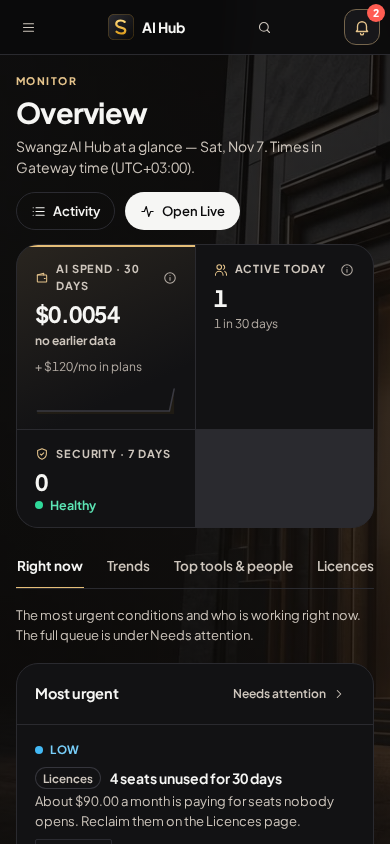
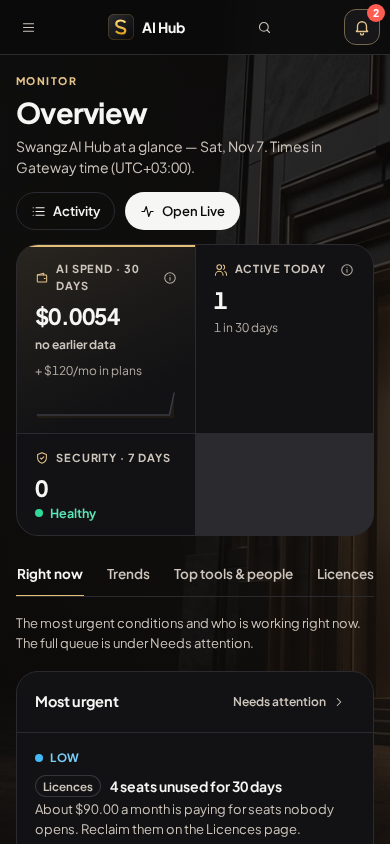
Fix Jakarta value clipping and glass print background

diff --git a/gateway/static/admin.css b/gateway/static/admin.css
@@ -109,7 +109,7 @@ code, pre, .mono { font-size: 12.5px; }
 .kpi .label { color: var(--tx-2); font-size: 11px; font-weight: 700; letter-spacing: .08em; text-transform: uppercase; display: flex; align-items: center; gap: 7px; }
 .kpi .label > svg { width: 14px; height: 14px; color: var(--accent-tx); flex: none; }
 .kpi .label .u-info { position: relative; z-index: 2; margin-left: auto; }
-.kpi .value { font-size: var(--t-num); font-weight: 720; letter-spacing: -.025em; line-height: 1.12; margin-top: 4px; white-space: normal; overflow-wrap: anywhere; font-variant-numeric: tabular-nums; }
+.kpi .value { font-size: var(--t-num); font-weight: 720; letter-spacing: -.025em; line-height: 1.3; margin-top: 4px; white-space: normal; overflow-wrap: anywhere; font-variant-numeric: tabular-nums; }
 .kpi.hero .value { font-size: clamp(1.9rem, 2.6vw, 2.35rem); }
 .kpi .value.text { font-size: 1.05rem; line-height: 1.3; white-space: normal; letter-spacing: -.01em; margin: 6px 0 2px; overflow-wrap: anywhere;
   display: -webkit-box; -webkit-line-clamp: 2; -webkit-box-orient: vertical; overflow: hidden; }

diff --git a/gateway/static/portal.css b/gateway/static/portal.css
@@ -176,7 +176,7 @@ h1, h2, h3 { text-wrap: balance; }
 .tr-main:hover strong { text-decoration: underline; text-underline-offset: 3px; }
 .tr-text { display: flex; flex-direction: column; min-width: 0; }
 .tr-text strong { font-weight: 650; font-size: 13.5px; white-space: nowrap; overflow: hidden; text-overflow: ellipsis; }
-.tr-sub { display: flex; align-items: center; gap: 6px; font-size: 12px; color: var(--tx-3); white-space: nowrap; overflow: hidden; }
+.tr-sub { display: flex; flex-wrap: wrap; align-items: center; gap: 6px; font-size: 12px; color: var(--tx-3); overflow-wrap: anywhere; }
 .tr-sub .dot { width: 3px; height: 3px; border-radius: 50%; background: var(--tx-4); flex: none; }
 .tr-sub .u-status { font-size: 12px; }
 .tr-act { flex: none; }

diff --git a/gateway/static/ui.css b/gateway/static/ui.css
@@ -12,6 +12,9 @@ body::before {
 }
 body:has(.topbar) { --scene-image: url("/static/home-welcome.webp"); }
 body:has(.gate) { --scene-image: url("/static/login-welcome.webp"); }
+@media print {
+  body::before { display: none; }
+}
 
 :is(.u-glass, .u-glass-strong, .u-glass-accent) {
   background: var(--glass-bg); border: 1px solid var(--glass-rim);

diff --git a/docs/AGENT-PROGRESS.md b/docs/AGENT-PROGRESS.md
@@ -186,3 +186,40 @@ actual logs: Ubuntu 24.04.5, CPython 3.12.15, PR merge SHA
 reported, successful step/job (exit 0). No Tk callback traceback appeared in the log. This verifies
 the corrected sign-in and cleanup retry GUI fixture on Linux. GUI/test files are unchanged by the
 Python 3.10 expectation follow-up; final-head full CI and Probe/Sentinel reviews remain required.
+
+## Glass R1 review correction — 7 November 2026
+
+Branch `feature/glass-r1`, worktree `.worktrees/glass-r1`, draft PR #38.
+Probe rejected initial head `1e0a319`: its actual browser check reproduced KPI
+overflow from Jakarta font metrics, mobile catalogue label clipping and the
+decorative scene printing behind black text. Chief confirmed no Forge/R3 shared
+CSS work had started and reserved the bounded correction for Prism.
+
+Kept Arnold-authorized self-hosted Plus Jakarta Sans. Raised `.kpi .value`
+line-height to 1.3; allowed `.tr-sub` metadata to wrap; hid `body::before` in
+print. Added metadata overflow detection to the existing CI browser harness;
+extended the focused glass harness to check all three defects. No auth/product
+logic, dependencies, production services, providers, merge or deployment changed.
+
+Actual corrected-tree checks (synthetic local fixtures, socket access enabled):
+
+- `UI_WIDTH=<1440|390> UI_THEME=<dark|light> UI_PAGES_ONLY=1
+  UI_OUTPUT=/tmp/prism-glass-r1-<theme><width> node tests/browser/check.cjs`:
+  four separate runs, each `PASS principal pages 27 interaction assertions;
+  25 screen checks`, exit 0. Total 108 assertions/100 screens, no browser errors,
+  axe findings, KPI clipping or tool metadata clipping. Deliberate Studio 400 is
+  expected; no unexpected API failures. Full role matrix stays on Actions.
+- `node docs/screenshots/glass-r1/check.cjs`: `PASS 81 targeted checks;
+  8 screenshots; 20 contrast bounds`, exit 0; minimum contrast bound 4.63:1.
+- `python3 -m unittest tests.test_portal tests.test_hub`: `Ran 56 tests in
+  30.576s`, `OK`, exit 0. Only fake upstream; no full suite repeated locally.
+- `python3 tests/browser/syntax.py`: `Checked 23 JavaScript files`, exit 0.
+- `git diff --check`: exit 0.
+
+Screenshots and result summaries: `docs/screenshots/glass-r1/`. Inspected all
+four exact 1440×900/390×844 admin screenshots and both new staff metadata
+screenshots. Print checks use Chromium media emulation, not physical output or
+a report PDF. Not run: real devices, Safari/Firefox, screen readers, full local
+role matrix/full suite, 60fps/CLS/MotionScore. Earlier Actions Python/app-window
+success applies only to `1e0a319`; browser failed there. Corrected-head CI and
+Probe re-verification are pending. No processes left running after checks.

diff --git a/docs/screenshots/glass-r1/README.md b/docs/screenshots/glass-r1/README.md
@@ -86,3 +86,43 @@ contact sheets, with full-size dashboard/footer stills for material detail.
 
 No production service, real provider, deployment or merge was used. Browser and
 fixture processes terminate in the check's cleanup handler.
+
+## Independent review corrections
+
+Probe rejected initial head `1e0a319` after reproducing the CI browser failure:
+Jakarta's font metrics exceed the KPI value's former 1.12 line height. Probe also
+found mobile catalogue metadata clipping and the scene printing behind black
+text. The initial focused checks above passed but did not cover these defects.
+
+The correction raises KPI value line height to 1.3, wraps catalogue metadata,
+and hides the decorative scene when printing. The CI harness now checks catalogue
+metadata overflow; the focused check also measures KPI fit, catalogue metadata
+and the print scene/paper/text styles. The font and its licence stay unchanged.
+Chief confirmed Forge's R3 shared-style work has not started and reserved these
+bounded corrections for R1.
+
+Corrected-tree results, all exit 0:
+
+- `UI_WIDTH=<1440|390> UI_THEME=<dark|light> UI_PAGES_ONLY=1
+  UI_OUTPUT=/tmp/prism-glass-r1-<theme><width> node tests/browser/check.cjs`,
+  executed separately for each of the four combinations: `PASS principal pages
+  27 interaction assertions; 25 screen checks` each. Total 108 assertions and
+  100 screen checks, zero browser exceptions or axe findings, no KPI or metadata
+  overflow. Each run includes the deliberately rejected Studio voice request;
+  no unexpected API failures. The role matrix remains on Actions, so these are
+  bounded selections of the CI harness, not a complete local CI job.
+- `node docs/screenshots/glass-r1/check.cjs`: `PASS 81 targeted checks;
+  8 screenshots; 20 contrast bounds`. Print media emulation hides the scene and
+  preserves white paper/black body text in both themes/viewports. This is not a
+  physical printer or full report PDF check. Contrast bounds remain ≥4.63:1.
+- `python3 -m unittest tests.test_portal tests.test_hub`:
+  `Ran 56 tests in 30.576s`, `OK`.
+- `python3 tests/browser/syntax.py`: `Checked 23 JavaScript files`.
+- `git diff --check`: exit 0.
+
+`regression-results.json` records the four CI-harness selections and counts.
+The four required admin screenshots were refreshed and visually inspected;
+`staff-tools-390-dark.png` and `staff-tools-390-light.png` show the full labels
+in the Adobe Premiere and CapCut rows. The wrapping makes those rows taller;
+the page layout and other reference differences listed above remain intentional.
+Independent re-verification and corrected-head Actions results are pending.
